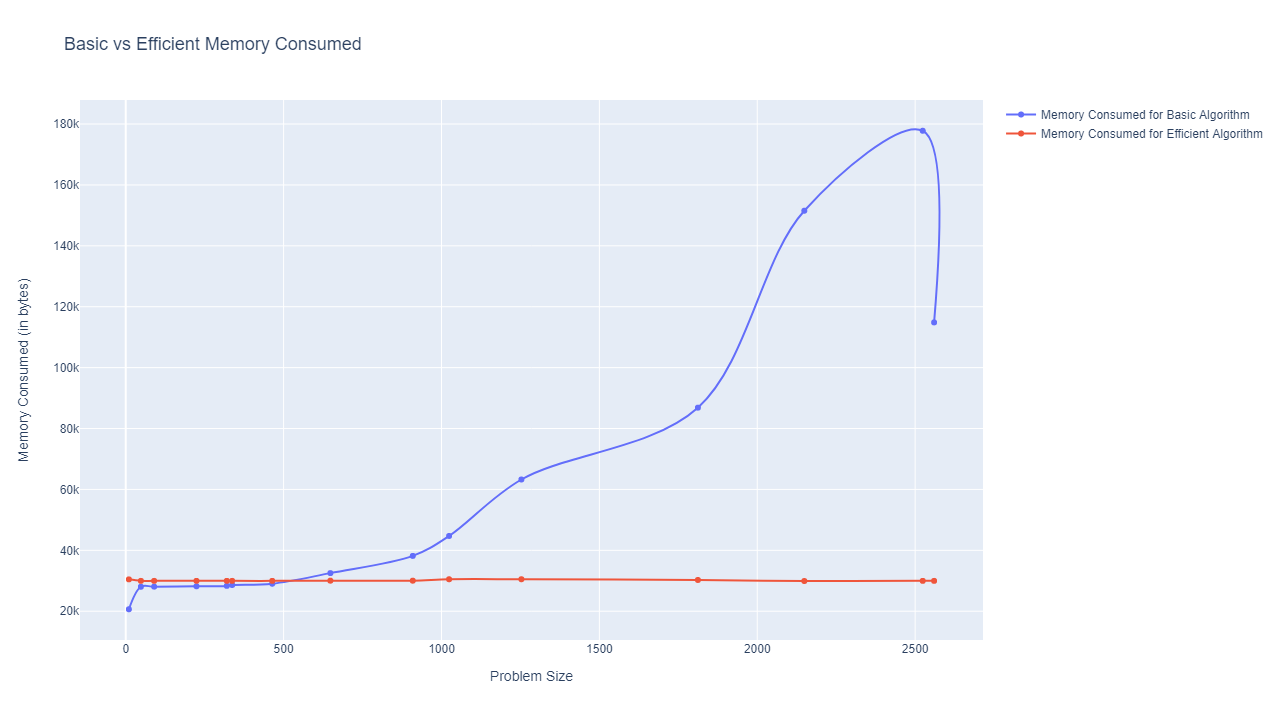
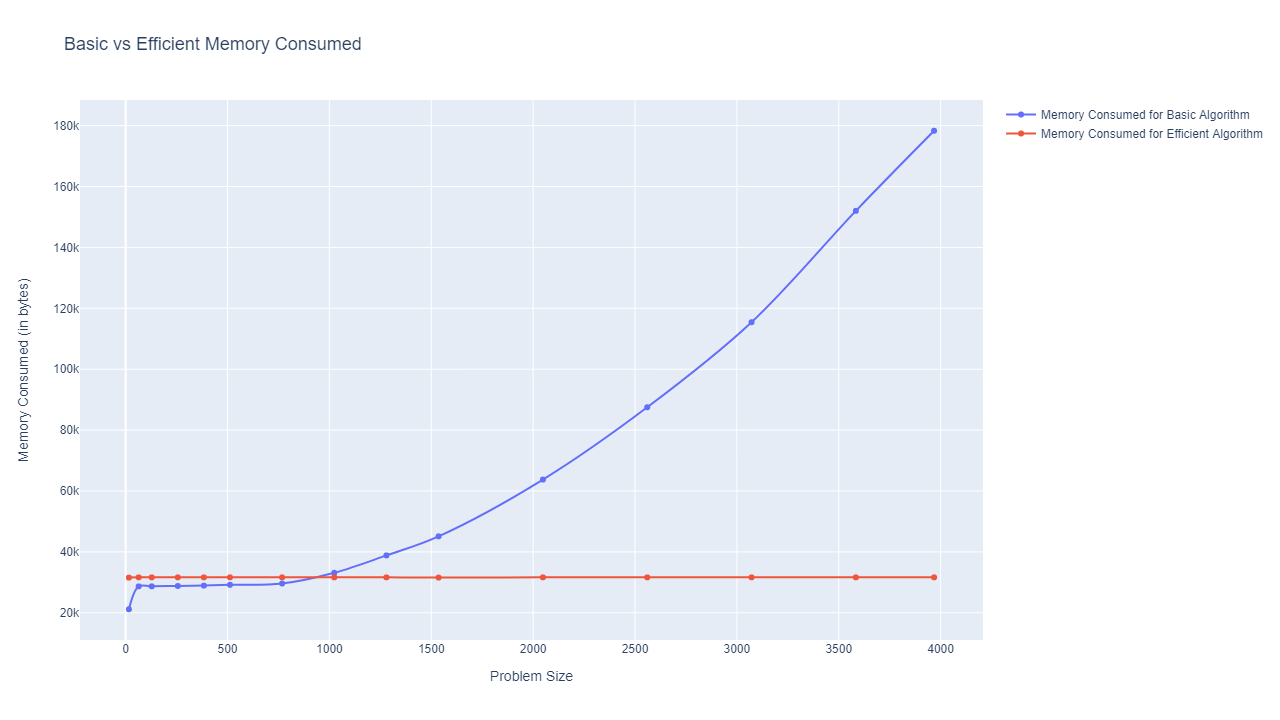
Patched issue in plotting data sort. Now it's sorting by m+n size. Verified graph.

diff --git a/efficient.py b/efficient.py
@@ -3,7 +3,7 @@ import logging
 import time
 
 from ipop import IO
-from util import DELTA, ALPHA, process_memory, PlottingData
+from util import DELTA, ALPHA, PlottingData, process_memory
 
 INFINITY = 10000000000
 
@@ -12,6 +12,8 @@ LOG_LEVEL = logging.INFO
 logging.basicConfig(
     level=LOG_LEVEL
 )
+
+GLOBAL_MEMORY_ARRAY = []
 
 
 class Algorithm:
@@ -43,6 +45,9 @@ class Algorithm:
                 break
 
     def get_similarity(self, first_gene_string, second_gene_string):
+
+        global GLOBAL_MEMORY_ARRAY
+
         start_time = time.perf_counter_ns()
 
         first_alignment, second_alignment = Algorithm.dnc(first_gene_string, second_gene_string)
@@ -51,15 +56,15 @@ class Algorithm:
         logging.debug(f'{first_alignment}\t{second_alignment}')
 
         end_time = time.perf_counter_ns()
-        memory_consumed = process_memory()
+        memory_consumed = max(GLOBAL_MEMORY_ARRAY)
         time_in_ms = (end_time - start_time) / 10 ** 6
 
-        return similarity, first_alignment, second_alignment, PlottingData(len(first_gene_string), time_in_ms,
-                                                                           memory_consumed)
+        return similarity, first_alignment, second_alignment, PlottingData(
+            len(first_gene_string) + len(second_gene_string), time_in_ms,
+            memory_consumed)
 
     @staticmethod
     def dnc(first_gene_string: str, second_gene_string: str):
-
         first_alignment, second_alignment = '', ''
 
         if len(first_gene_string) == 0:
@@ -94,6 +99,10 @@ class Algorithm:
 
     @staticmethod
     def nw(first_gene_string, second_gene_string):
+        global GLOBAL_MEMORY_ARRAY
+
+        GLOBAL_MEMORY_ARRAY.append(process_memory())
+
         dp = [[0 for _ in range(len(second_gene_string) + 1)] for _ in range(len(first_gene_string) + 1)]
 
         for i in range(len(first_gene_string) + 1):

diff --git a/basic.py b/basic.py
@@ -95,7 +95,8 @@ class Algorithm:
         memory_consumed = process_memory()
         similarity = dp[len(string_1)][len(string_2)]
 
-        return similarity, new_string_1, new_string_2, PlottingData(len(new_string_1), time_in_ms, memory_consumed)
+        return similarity, new_string_1, new_string_2, PlottingData(len(string_1) + len(string_2), time_in_ms,
+                                                                    memory_consumed)
 
     def sort_plotting_data_with_problem_size(self):
         self.plotting_data_list.sort(key=lambda x: x.problem_size)

diff --git a/plotting.py b/plotting.py
@@ -1,6 +1,8 @@
 # import matplotlib.pyplot as plt
 import os.path
 
+import pandas as pd
+
 import plotly.graph_objects as go
 from plotly.subplots import make_subplots
 
